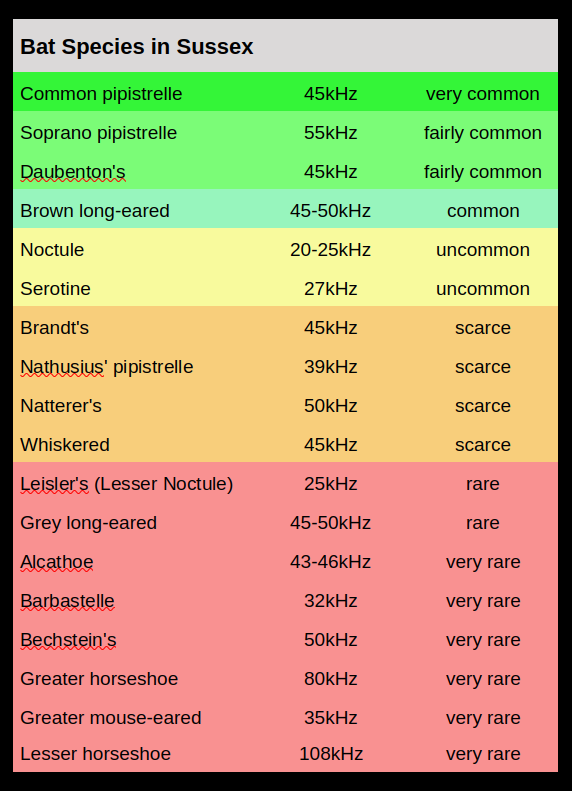
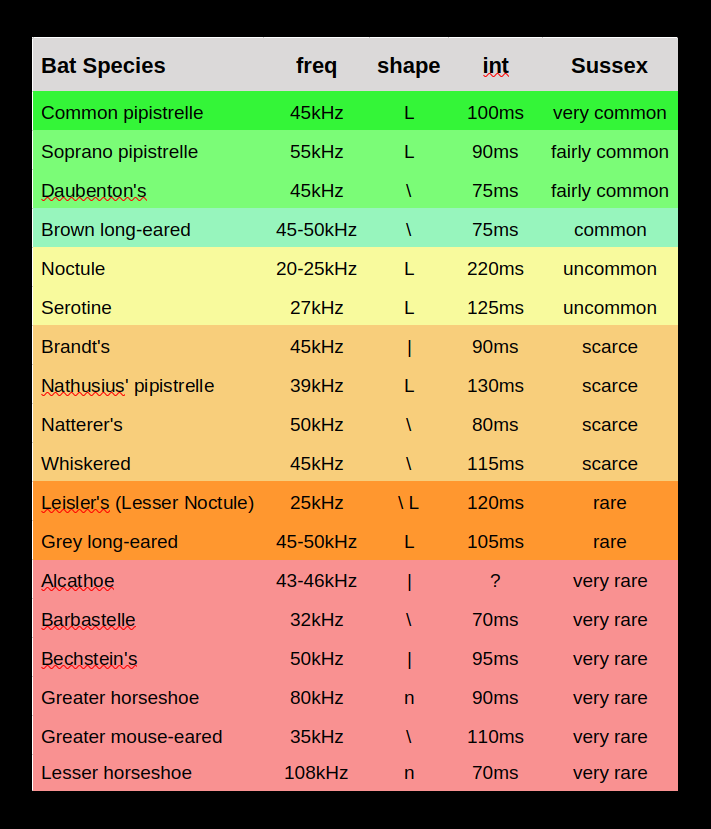
updates to Overview chart display layout

diff --git a/scripts/daily_plot.py b/scripts/daily_plot.py
@@ -125,24 +125,24 @@ current_night = pd.Timestamp(
 df_plt_today = df_plt[df_plt['NightDate'] == current_night]
 
 # Set number of species to report
-readings = 25 # as there are only 18 in UK
+readings = 20 # as there are only 18 in UK
 
 plt_top10_today = (df_plt_today['Com_Name'].value_counts()[:readings])
 df_plt_top10_today = df_plt_today[df_plt_today.Com_Name.isin(plt_top10_today.index)]
 
 # *****mod to sync nights; i.e. clear results at midday ready for current 'night'
-# SaveNote2File("could exit...")
 
-if (now.hour < dusk_hour and now.hour >= 12) or (now.hour >= dusk_hour and df_plt_top10_today.empty):
-    SaveNote2File("No detections yet for current night")
-    plt.figure(figsize=(10, 4))
+
+if (now.hour >= 12 and now.hour < dusk_hour) or (now.hour >= dusk_hour and df_plt_top10_today.empty):
+    SaveNote2File("No detections so far tonight")
+    plt.figure(figsize=(10, 8))
     plt.text(
         0.5,
         0.5,
-        "No bat detections yet tonight",
+        "No bat detections so far tonight",
         ha='center',
         va='center',
-        fontsize=20
+        fontsize=22
     )
 
     plt.axis('off')
@@ -163,12 +163,34 @@ if (now.hour < dusk_hour and now.hour >= 12) or (now.hour >= dusk_hour and df_pl
 #batBarChartColours = "Reds"
 batBarChartColours = "Greys"
 
-# Set up plot axes and titles
-f, axs = plt.subplots(1, 2, figsize=(10, 8), gridspec_kw=dict(width_ratios=[1, 4]), facecolor='#f02080')
-plt.subplots_adjust(left=0.22, bottom=None, right=None, top=None, wspace=0, hspace=0)
-
 # generate y-axis order for all figures based on frequency
-freq_order = pd.value_counts(df_plt_top10_today['Com_Name']).iloc[:readings].index
+freq_order = df_plt_top10_today['Com_Name'].value_counts().iloc[:readings].index
+num_species = len(freq_order)
+row_height = 0.5
+top_bottom_margin = 1.0
+fig_height = top_bottom_margin + (num_species * row_height)
+
+# Set up plot axes and titles
+f, axs = plt.subplots(
+    1, 2,
+    figsize=(10, fig_height),
+    gridspec_kw=dict(width_ratios=[1, 4]),
+    facecolor='#f02080'
+)
+
+f.set_constrained_layout(False)
+
+plt.subplots_adjust(
+    left=0.25,
+    bottom=0.28,
+    right=None,
+    top=0.85,
+    wspace=0,
+    hspace=0
+)
+
+SaveNote2File("...Hello!")
+
 
 # make color for max confidence --> this groups by name and calculates max conf
 confmax = df_plt_top10_today.groupby('Com_Name')['Confidence'].max()
@@ -176,17 +198,19 @@ confmax = df_plt_top10_today.groupby('Com_Name')['Confidence'].max()
 confmax = confmax.reindex(freq_order)
 
 # norm values for color palette
+if confmax.empty:
+    SaveNote2File("Empty confmax - using fallback colour scale")
+    confmax = pd.Series([1], index=["No data"])
+
 norm = plt.Normalize(confmax.values.min(), confmax.values.max())
 colors = plt.cm.Reds(norm(confmax))
 
 # Generate frequency plot
 plot = sns.countplot(y='Com_Name', data=df_plt_top10_today, palette=colors, order=freq_order, ax=axs[0])
 
-# axs[0].tick_params(axis='y', pad=40)
-
 # Try plot grid lines between bars - problem at the moment plots grid lines on bars - want between bars
 z = plot.get_ymajorticklabels()
-plot.set_yticklabels(['\n'.join(textwrap.wrap(ticklabel.get_text(), 20)) for ticklabel in plot.get_yticklabels()], fontsize=12)
+plot.set_yticklabels(['\n'.join(textwrap.wrap(ticklabel.get_text(), 20)) for ticklabel in plot.get_yticklabels()], fontsize=16)
 plot.set(ylabel=None)   
 plot.set(xlabel=None)
 axs[0].set_xticklabels([])
@@ -209,12 +233,21 @@ heat.sort_index(level=0, inplace=True)
 # Get current hour
 current_hour = now.hour
 
+if heat.empty or heat.values.size == 0 or heat.values.sum() == 0:
+    SaveNote2File("Empty heatmap detected - inserting fallback")
+
+    heat = pd.DataFrame(
+        [[0]],
+        index=["No detections"],
+        columns=["0"]
+    )
+
 # Generate heatmap plot
 plot = sns.heatmap(
     heat,
     norm=LogNorm(),
     annot=True,
-    annot_kws={'size': 8, 'rotation': 45},
+    annot_kws={'size': 10, 'rotation': 45},
     fmt="g",
     cmap=batBarChartColours,
     square=False,
@@ -239,18 +272,24 @@ for _, spine in plot.spines.items():
     spine.set_visible(True)
 
 plot.set(ylabel=None)
-plot.set_xlabel("Hour of Night", fontsize=12)
+plot.set_xlabel(
+    "Hour of Night",
+    fontsize=16,
+    labelpad=12
+)
 axs[1].tick_params(axis='x', labelsize=12)
 # Set combined plot layout and titles
-f.subplots_adjust(top=0.9)
+
+
 
 plt.suptitle(
-    "Detected Species for the night of " +
+    "Species for the night of " +
     current_night.strftime("%d-%b-%Y") +
-    "\n updated: " +
+    " ...last updated: " +
     str(now.strftime("%H:%M")),
     fontsize=14,
-    fontweight='bold'
+    fontweight='bold',
+    y=0.97
 )
 
 # Save combined plot

diff --git a/scripts/overview.php b/scripts/overview.php
@@ -30,11 +30,27 @@ if (file_exists('./scripts/thisrun.txt')) {
   $config = parse_ini_file('./scripts/firstrun.ini');
 }
 
+# get sunset time
+$python = escapeshellarg('/home/steve/BirdNET-Pi/birdnet/bin/python3');
+$script = escapeshellarg(__DIR__ . '/sun_info.py');
+$latArg = $config['LATITUDE'];
+$lonArg = $config['LONGITUDE'];
+$whenArg = escapeshellarg('down');
+
+$cmd = "$python $script --lat $latArg --lon $lonArg --updown $whenArg 2>&1";
+error_log("CMD: $cmd");
+$output = shell_exec($cmd);
+$sunset = ($output === null) ? 'n/a' : trim($output);
+#get sunrise time
+$whenArg = escapeshellarg('up');
+$cmd = "$python $script --lat $latArg --lon $lonArg --updown $whenArg 2>&1";
+error_log("CMD: $cmd");
+$output = shell_exec($cmd);
+$sunrise = ($output === null) ? 'n/a' : trim($output);
+
 $user = shell_exec("awk -F: '/1000/{print $1}' /etc/passwd");
 $home = shell_exec("awk -F: '/1000/{print $6}' /etc/passwd");
 $home = trim($home);
-
-
 
 $statement2 = $db->prepare("
 SELECT COUNT(*)
@@ -224,9 +240,13 @@ if(isset($_GET['ajax_detections']) && $_GET['ajax_detections'] == "true" && isse
           }
         }
         </style>
+        <?php
+        echo '<h3>Sunset @ ' . htmlspecialchars($sunset, ENT_QUOTES, 'UTF-8')
+           . ' - Sunrise @ ' . htmlspecialchars($sunrise, ENT_QUOTES, 'UTF-8') . '</h3>';
+        ?>
         <table class="<?php echo ($_GET['previous_detection_identifier'] == 'undefined') ? '' : 'fade-in';  ?>">
           <h3>Most Recent Detection: <span style="font-weight: normal;">
-			  <?php echo $mostrecent['Date']." ".$mostrecent['Time'];?></span></h3>
+			  <?php echo $mostrecent['Date']." @ ".$mostrecent['Time'];?></span></h3>
           <tr>
             <td class="relative"><a target="_blank" href="index.php?filename=<?php echo $mostrecent['File_Name']; ?>"><img class="copyimage" title="Open in new tab" width="25" height="25" src="images/copy.png"></a>
             <div class="centered_image_container" style="margin-bottom: 0px !important;">
@@ -246,7 +266,7 @@ if(isset($_GET['ajax_detections']) && $_GET['ajax_detections'] == "true" && isse
   }
   if($iterations == 0) {
     if($todaycount['COUNT(*)'] > 0) {
-      echo "<h3>Your system is currently processing a backlog of audio ...could take hours</h3>";
+      echo "<h3>Your system is currently processing a backlog of audio ...could take some time</h3>";
     } else {
       echo "<h3>No Detections For Tonight</h3>";
     }
